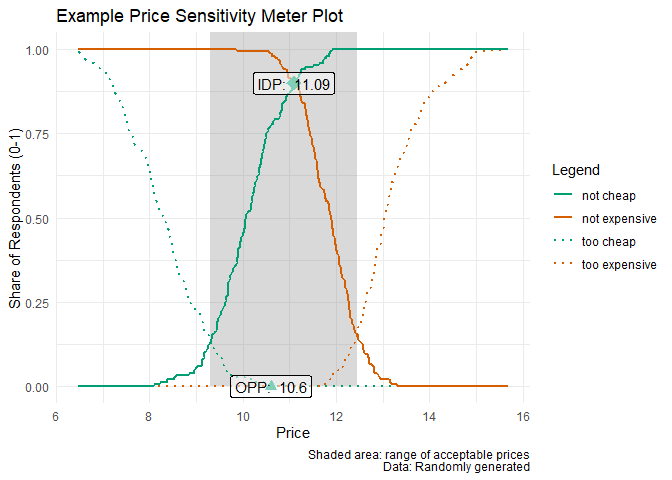
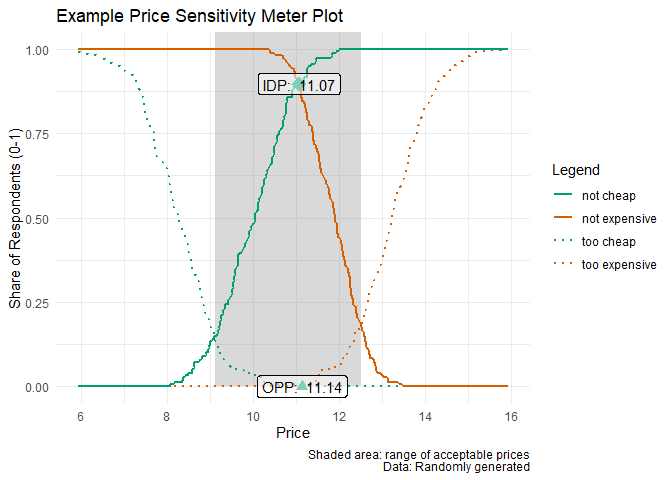
psm_plot(): fix digits, flexible colors

diff --git a/README.md b/README.md
@@ -1,13 +1,11 @@
-pricesensitivitymeter
-=====================
+# pricesensitivitymeter
 
 [![CRAN\_Status\_Badge](https://www.r-pkg.org/badges/version/pricesensitivitymeter)](https://cran.r-project.org/package=pricesensitivitymeter)
 [![CRAN\_Download\_Badge](https://cranlogs.r-pkg.org/badges/grand-total/pricesensitivitymeter)](https://cran.r-project.org/package=pricesensitivitymeter)
 [![R-CMD-check](https://github.com/max-alletsee/pricesensitivitymeter/workflows/R-CMD-check/badge.svg)](https://github.com/max-alletsee/pricesensitivitymeter/actions)
 [![codecov](https://codecov.io/gh/max-alletsee/pricesensitivitymeter/branch/master/graph/badge.svg?token=W1JHNAMMEB)](https://codecov.io/gh/max-alletsee/pricesensitivitymeter)
 
-Overview
---------
+## Overview
 
 pricesensitivitymeter is an implementation of the van Westendorp Price
 Sensitivity Meter (PSM) in R, which is a popular method in market
@@ -15,55 +13,57 @@ research to analyze consumer price preferences and price sensitivity. It
 also covers the so-called Newton Miller Smith Extension which allows to
 estimate prices that maximize the trial rate and the revenue.
 
-Installation
-------------
+## Installation
 
 As of version 0.2.1, this package is [available on
 CRAN](https://cran.r-project.org/package=pricesensitivitymeter).
 
-    # install the stable release from CRAN
-    install.packages("pricesensitivitymeter")
+``` r
+# install the stable release from CRAN
+install.packages("pricesensitivitymeter")
 
-    # install the development version from Github
-    devtools::install_github("max-alletsee/pricesensitivitymeter")
+# install the development version from Github
+devtools::install_github("max-alletsee/pricesensitivitymeter")
+```
 
-Usage
------
+## Usage
 
 The main function of the package is `psm_analysis()` which performs all
 necessary analyses.
 
-    ## creating example data
+``` r
+## creating example data
 
-    tch <- round(rnorm(n = 250, mean = 8.5, sd = 1), digits = 2)
-    ch <- round(rnorm(n = 250, mean = 10, sd = 1), digits = 2)
-    ex <- round(rnorm(n = 250, mean = 12, sd = 0.75), digits = 2)
-    tex <- round(rnorm(n = 250, mean = 13, sd = 1), digits = 2)
+tch <- round(rnorm(n = 250, mean = 8.5, sd = 1), digits = 2)
+ch <- round(rnorm(n = 250, mean = 10, sd = 1), digits = 2)
+ex <- round(rnorm(n = 250, mean = 12, sd = 0.75), digits = 2)
+tex <- round(rnorm(n = 250, mean = 13, sd = 1), digits = 2)
 
-    data_psm_demo <- data.frame(tch, ch, ex, tex)
+data_psm_demo <- data.frame(tch, ch, ex, tex)
 
-    library(pricesensitivitymeter)
+library(pricesensitivitymeter)
 
-    ## running the analysis
-    output_psm_demo <- psm_analysis(
-      toocheap = "tch",
-      cheap = "ch",
-      expensive = "ex",
-      tooexpensive = "tex",
-      data = data_psm_demo
-    )
+## running the analysis
+output_psm_demo <- psm_analysis(
+  toocheap = "tch",
+  cheap = "ch",
+  expensive = "ex",
+  tooexpensive = "tex",
+  data = data_psm_demo
+)
 
-    summary(output_psm_demo)
-    #> Van Westendorp Price Sensitivity Meter Analysis
-    #> 
-    #> Accepted Price Range: 9.3 - 12.44 
-    #> Indifference Price Point: 11.09 
-    #> Optimal Price Point: 10.6 
-    #> 
-    #> ---
-    #> 149 cases with individual price preferences were analyzed (unweighted data).
-    #> Total data set consists of 250 cases. Analysis was limited to cases with transitive price preferences.
-    #> (Removed: n = 101 / 40% of data)
+summary(output_psm_demo)
+#> Van Westendorp Price Sensitivity Meter Analysis
+#> 
+#> Accepted Price Range: 9.11 - 12.52 
+#> Indifference Price Point: 11.07 
+#> Optimal Price Point: 11.14 
+#> 
+#> ---
+#> 156 cases with individual price preferences were analyzed (unweighted data).
+#> Total data set consists of 250 cases. Analysis was limited to cases with transitive price preferences.
+#> (Removed: n = 94 / 38% of data)
+```
 
 The package also has a function `psm_analysis_weighted()` that deals
 with weighted survey data where the survey design for the weighting is
@@ -73,27 +73,27 @@ vignette for more details.) Moreover, there is a convenience function
 Meter plot via `ggplot2`. Below is a simple example, using the analysis
 result created above.
 
-    library(ggplot2)
+``` r
+library(ggplot2)
 
-    psm_plot(output_psm_demo) +
-      labs(
-        x = "Price",
-        y = "Share of Respondents (0-1)",
-        title = "Example Price Sensitivity Meter Plot",
-        caption = "Shaded area: range of acceptable prices\nData: Randomly generated") + 
-      theme_minimal()
+psm_plot(output_psm_demo) +
+  labs(
+    x = "Price",
+    y = "Share of Respondents (0-1)",
+    title = "Example Price Sensitivity Meter Plot",
+    caption = "Shaded area: range of acceptable prices\nData: Randomly generated") + 
+  theme_minimal()
+```
 
 ![](README-example_plot-1.png)<!-- -->
 
-Additional Information
-----------------------
+## Additional Information
 
 -   Please [report any issues or
     bugs](https://github.com/max-alletsee/pricesensitivitymeter/issues).
 -   License: MIT
 
-References
-----------
+## References
 
 Van Westendorp, P (1976) “NSS-Price Sensitivity Meter (PSM) – A new
 approach to study consumer perception of price” *Proceedings of the
